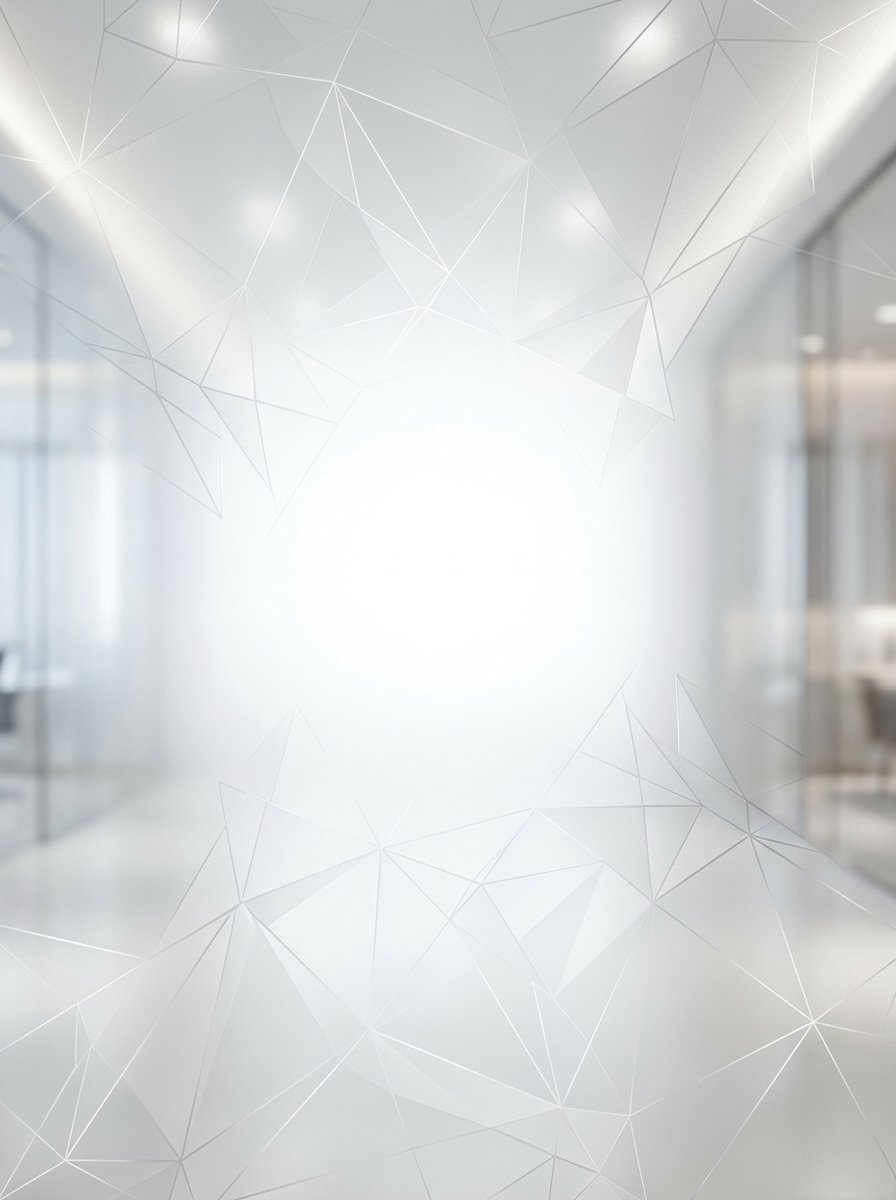
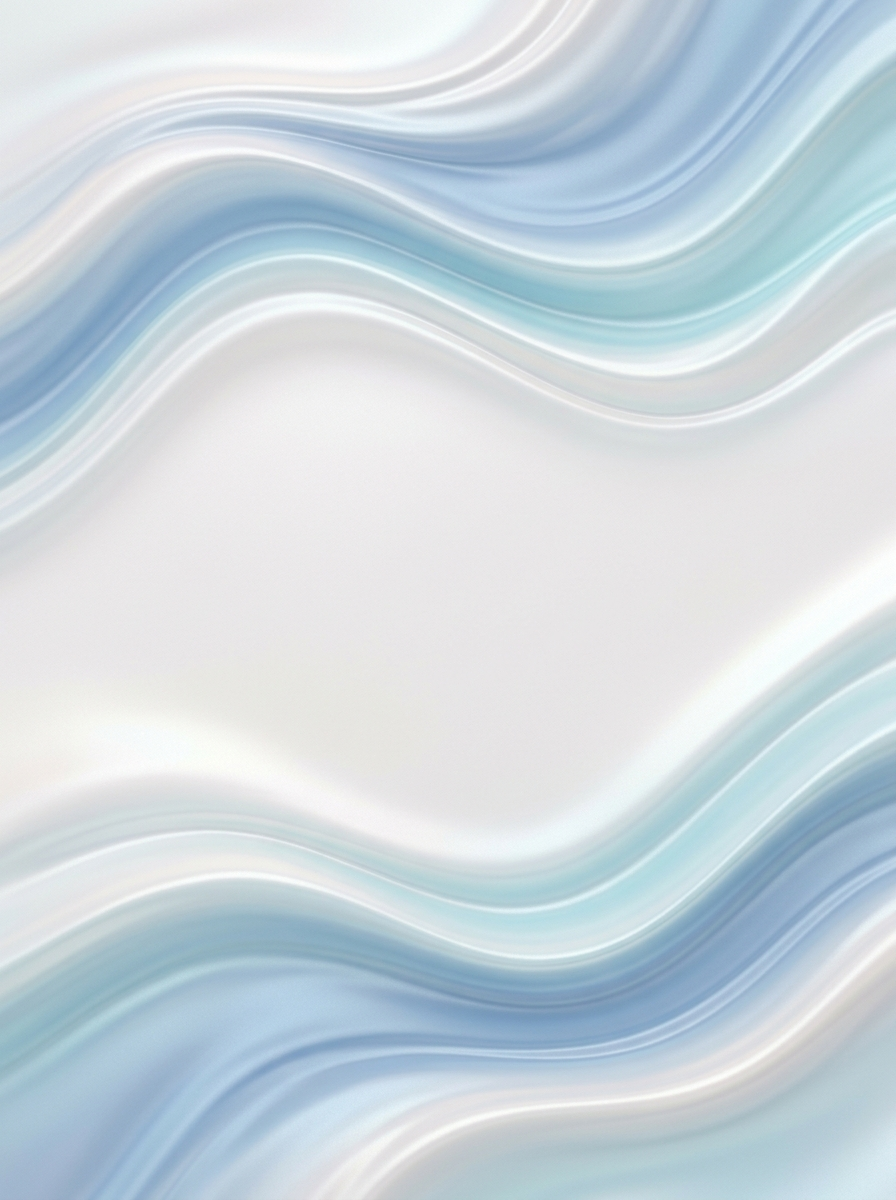
refactor: update QR code standee style 2 layout and background asset

diff --git a/resources/views/admin/print_qr_code.blade.php b/resources/views/admin/print_qr_code.blade.php
@@ -96,87 +96,72 @@
         <div class="col-12 col-md-4"></div>
         <div class="col-12 col-md-4">
             @if($currentStyle === 'style2')
-                <!-- STYLE 2: EXECUTIVE ACRYLIC STANDEE PRINT WITH LUXURY MESH BG & CENTER LOGO QR -->
-                <div class="qr_box_modern" id="qr_box" style="position: relative; text-align: center; background-color: #ffffff !important; border-radius: 20px; border: 2px solid #cbd5e1; overflow: hidden; color: #0f172a !important; -webkit-print-color-adjust: exact !important; print-color-adjust: exact !important;">
-                    <!-- Luxury Standee Background Image (renders in all print dialogs) -->
-                    <img src="{{ asset('frontend/images/qr_standee_luxury.jpg') }}" alt="Standee Background" style="position: absolute; top: 0; left: 0; width: 100%; height: 100%; object-fit: cover; z-index: 0; pointer-events: none; -webkit-print-color-adjust: exact !important; print-color-adjust: exact !important;">
+                <!-- STYLE 2: MODERN ACRYLIC STANDEE PRINT -->
+                <div class="qr_box_modern" id="qr_box" style="position: relative; text-align: center; background-color: #ffffff !important; border-radius: 26px; border: 2px solid #cbd5e1; overflow: hidden; color: #0f172a !important; -webkit-print-color-adjust: exact !important; print-color-adjust: exact !important;">
+                    <!-- Standee Background Image (renders in all print dialogs) -->
+                    <img src="{{ asset('frontend/images/qr_standee_bg.jpg') }}" alt="Standee Background" style="position: absolute; top: 0; left: 0; width: 100%; height: 100%; object-fit: cover; z-index: 0; pointer-events: none; -webkit-print-color-adjust: exact !important; print-color-adjust: exact !important;">
 
                     <!-- Content Layer -->
-                    <div style="position: relative; z-index: 1; display: flex; flex-direction: column; min-height: 600px;">
-                        <!-- Top Google Accent Bar -->
-                        <div style="background: linear-gradient(90deg, #4285F4 25%, #EA4335 25% 50%, #FBBC05 50% 75%, #34A853 75% 100%) !important; height: 6px; -webkit-print-color-adjust: exact !important;"></div>
+                    <div style="position: relative; z-index: 1; display: flex; flex-direction: column; min-height: 580px;">
+                        <!-- Top Google Gradient Ribbon -->
+                        <div style="background: linear-gradient(90deg, #4285F4 0%, #EA4335 33%, #FBBC05 66%, #34A853 100%) !important; height: 8px; -webkit-print-color-adjust: exact !important;"></div>
                         
                         <!-- Header Section -->
                         <div style="padding: 22px 20px 6px 20px;">
-                            <!-- Google Reviews Header Pill -->
-                            <div style="display: inline-flex; align-items: center; gap: 8px; background: rgba(255, 255, 255, 0.95) !important; padding: 6px 16px; border-radius: 30px; border: 1.5px solid #e2e8f0; margin-bottom: 8px; -webkit-print-color-adjust: exact !important;">
-                                <svg width="18" height="18" viewBox="0 0 24 24" style="vertical-align: middle;">
-                                    <path fill="#4285F4" d="M23.745 12.27c0-.7-.06-1.4-.19-2.07H12v4.51h6.6c-.29 1.52-1.14 2.82-2.4 3.68v3.05h3.88c2.27-2.09 3.665-5.17 3.665-9.17z"/>
-                                    <path fill="#34A853" d="M12 24c3.24 0 5.95-1.08 7.93-2.91l-3.88-3.05c-1.08.72-2.45 1.16-4.05 1.16-3.12 0-5.77-2.1-6.72-4.93H1.25v3.15C3.26 21.36 7.36 24 12 24z"/>
-                                    <path fill="#FBBC05" d="M5.28 14.27c-.25-.72-.38-1.49-.38-2.27s.14-1.55.38-2.27V6.58H1.25C.45 8.18 0 9.99 0 12s.45 3.82 1.25 5.42l4.03-3.15z"/>
-                                    <path fill="#EA4335" d="M12 4.75c1.77 0 3.35.61 4.6 1.8l3.42-3.42C17.95 1.19 15.24 0 12 0 7.36 0 3.26 2.64 1.25 6.58l4.03 3.15c.95-2.83 3.6-4.98 6.72-4.98z"/>
-                                </svg>
-                                <span style="font-weight: 800; font-size: 13px; color: #1e293b !important; letter-spacing: 0.3px; -webkit-print-color-adjust: exact !important;">Google Reviews</span>
-                                <div style="color: #f59e0b !important; font-size: 13px; display: inline-flex; gap: 2px; -webkit-print-color-adjust: exact !important;">
-                                    <i class="fa fa-star"></i><i class="fa fa-star"></i><i class="fa fa-star"></i><i class="fa fa-star"></i><i class="fa fa-star"></i>
-                                </div>
+                            <!-- 5 Stars -->
+                            <div style="display: inline-flex; align-items: center; justify-content: center; gap: 5px; color: #f59e0b !important; font-size: 24px; margin-bottom: 4px; -webkit-print-color-adjust: exact !important;">
+                                <i class="fa fa-star"></i><i class="fa fa-star"></i><i class="fa fa-star"></i><i class="fa fa-star"></i><i class="fa fa-star"></i>
                             </div>
 
-                            <h2 style="color: #0f172a !important; font-weight: 900; font-size: 24px; letter-spacing: 0.8px; text-transform: uppercase; margin: 4px 0 2px 0; line-height: 1.2;">
+                            <!-- Title -->
+                            <h2 style="color: #0b132b !important; font-weight: 900; font-size: 26px; letter-spacing: 1px; text-transform: uppercase; margin: 2px 0 0 0; line-height: 1.2;">
                                 Review Us On Google
                             </h2>
 
-                            <div style="margin-top: 4px; display: inline-flex; align-items: center; justify-content: center; gap: 6px;">
-                                <span style="color: #1d4ed8 !important; font-weight: 800; font-size: 18px; letter-spacing: 0.2px;">{{ Auth::user()->name }}</span>
-                                <span style="color: #2563eb !important; font-size: 16px;" title="Verified Business"><i class="fa-solid fa-circle-check"></i></span>
+                            <!-- Store Name -->
+                            <div style="margin-top: 4px;">
+                                <span style="color: #1a56db !important; font-weight: 800; font-size: 19px; letter-spacing: 0.2px;">{{ Auth::user()->name }}</span>
                             </div>
 
-                            <p style="color: #64748b !important; font-size: 13px; margin: 3px 0 12px 0; font-weight: 600;">
+                            <!-- Subtitle -->
+                            <p style="color: #475569 !important; font-size: 13.5px; margin: 4px 0 0 0; font-weight: 600;">
                                 Your 5-star review helps our business grow!
                             </p>
                         </div>
 
-                        <!-- Elevated QR Code Plaque -->
-                        <div style="margin: 0 auto;">
-                            <div style="display: inline-block; background: #ffffff !important; padding: 15px 15px 12px 15px; border-radius: 22px; border: 2px solid #f1f5f9; text-align: center; -webkit-print-color-adjust: exact !important;">
-                                <div class="qr_code_frame" style="position: relative; display: inline-block; line-height: 0;">
-                                    {!! QrCode::size(210)->errorCorrection('H')->generate($url."?from=qr") !!}
-                                    @if(!empty(Auth::user()->logo))
-                                        <div class="qr_center_logo" style="position: absolute; top: 50%; left: 50%; transform: translate(-50%, -50%); width: 56px; height: 56px; background: #ffffff !important; border-radius: 14px; padding: 5px; display: flex; align-items: center; justify-content: center; border: 2.5px solid #ffffff !important; overflow: hidden; z-index: 2; -webkit-print-color-adjust: exact !important;">
-                                            <img src="{{ Auth::user()->logo }}" alt="{{ Auth::user()->name }}" style="max-width: 100%; max-height: 100%; object-fit: contain; border-radius: 8px;">
-                                        </div>
-                                    @endif
-                                </div>
-                                <div style="display: flex; align-items: center; justify-content: center; gap: 6px; margin-top: 10px; color: #1e293b !important; font-weight: 700; font-size: 13px; -webkit-print-color-adjust: exact !important;">
-                                    <span style="display: inline-flex; align-items: center; justify-content: center; width: 24px; height: 24px; border-radius: 50%; background: #eff6ff !important; color: #2563eb !important; font-size: 11px; -webkit-print-color-adjust: exact !important;">
-                                        <i class="fa fa-camera"></i>
-                                    </span>
-                                    <span>Point camera & tap link to review</span>
-                                </div>
+                        <!-- White Framed QR Code Card -->
+                        <div style="background: #ffffff !important; margin: 12px 24px 14px 24px; padding: 22px 18px 16px 18px; border-radius: 26px; border: 1.5px solid #f1f5f9; text-align: center; -webkit-print-color-adjust: exact !important;">
+                            <div class="qr_code_frame" style="position: relative; display: inline-block; line-height: 0;">
+                                {!! QrCode::size(215)->errorCorrection('H')->generate($url."?from=qr") !!}
+                                @if(!empty(Auth::user()->logo))
+                                    <div class="qr_center_logo" style="position: absolute; top: 50%; left: 50%; transform: translate(-50%, -50%); width: 52px; height: 52px; background: #ffffff !important; border-radius: 12px; padding: 4px; display: flex; align-items: center; justify-content: center; border: 2.5px solid #ffffff !important; overflow: hidden; z-index: 2; -webkit-print-color-adjust: exact !important;">
+                                        <img src="{{ Auth::user()->logo }}" alt="{{ Auth::user()->name }}" style="max-width: 100%; max-height: 100%; object-fit: contain; border-radius: 6px;">
+                                    </div>
+                                @endif
+                            </div>
+                            <div style="display: flex; align-items: center; justify-content: center; gap: 8px; margin-top: 12px; color: #0f172a !important; font-weight: 700; font-size: 13.5px; -webkit-print-color-adjust: exact !important;">
+                                <span style="display: inline-flex; align-items: center; justify-content: center; width: 24px; height: 24px; border-radius: 50%; background: #eff6ff !important; color: #2563eb !important; font-size: 11px; -webkit-print-color-adjust: exact !important;">
+                                    <i class="fa fa-camera"></i>
+                                </span>
+                                <span>Point camera & tap the link</span>
                             </div>
                         </div>
 
-                        <!-- NFC & Contactless Feature Pill -->
-                        <div style="margin: 12px auto 6px auto; display: inline-flex; align-items: center; gap: 8px; background: rgba(255, 255, 255, 0.9) !important; padding: 5px 16px; border-radius: 30px; border: 1.5px solid #e2e8f0; -webkit-print-color-adjust: exact !important;">
-                            <span style="color: #0284c7 !important; font-size: 14px;"><i class="fa fa-wifi" style="transform: rotate(90deg);"></i></span>
-                            <span style="font-size: 12px; font-weight: 700; color: #334155 !important;">NFC Tap & QR Code Supported</span>
+                        <!-- Google Review Badge -->
+                        <div style="padding: 2px 20px 14px 20px;">
+                            <img src="{{ asset('frontend/images/gog_rev.png') }}" alt="Google Reviews" style="height: 58px;">
                         </div>
 
-                        <!-- Google Review Rating Badge -->
-                        <div style="margin: 4px auto 12px auto;">
-                            <img src="{{ asset('frontend/images/gog_rev.png') }}" alt="Google Reviews" style="height: 50px;">
-                        </div>
-
-                        <!-- Footer Verified & Powered By -->
-                        <div style="margin-top: auto; padding: 12px 20px; background: rgba(255, 255, 255, 0.9) !important; border-top: 1px solid rgba(226, 232, 240, 0.8); display: flex; align-items: center; justify-content: space-between; -webkit-print-color-adjust: exact !important;">
-                            <div style="display: flex; align-items: center; gap: 6px; color: #64748b !important; font-size: 12px; font-weight: 700; -webkit-print-color-adjust: exact !important;">
-                                <span style="display: inline-flex; align-items: center; justify-content: center; width: 22px; height: 22px; border-radius: 50%; background: #e0f2fe !important; color: #0284c7 !important; font-size: 10px; -webkit-print-color-adjust: exact !important;">
-                                    <i class="fa fa-shield-halved"></i>
+                        <!-- Footer Bar -->
+                        <div style="margin-top: auto; padding: 13px 20px; background: rgba(255, 255, 255, 0.95) !important; border-top: 1px solid rgba(226, 232, 240, 0.85); display: flex; align-items: center; justify-content: space-between; -webkit-print-color-adjust: exact !important;">
+                            <div style="display: flex; align-items: center; gap: 7px; color: #1e293b !important; font-size: 12.5px; font-weight: 700; -webkit-print-color-adjust: exact !important;">
+                                <span style="display: inline-flex; align-items: center; justify-content: center; width: 24px; height: 24px; border-radius: 50%; background: #e0f2fe !important; color: #0284c7 !important; font-size: 11px; -webkit-print-color-adjust: exact !important;">
+                                    <i class="fa fa-wifi" style="transform: rotate(90deg);"></i>
                                 </span>
-                                <span>Verified Review Standee</span>
+                                <span>Touch-Free Review</span>
                             </div>
                             <div style="display: flex; align-items: center; gap: 5px;">
-                                <span style="color: #94a3b8 !important; font-size: 11px; text-transform: uppercase; font-weight: 600;">Powered by</span>
+                                <span style="color: #64748b !important; font-size: 11px; text-transform: uppercase; font-weight: 700; letter-spacing: 0.5px;">Powered by</span>
                                 <img src="{{ asset('frontend/images/ask.png') }}" alt="AskReview" style="height: 22px;">
                             </div>
                         </div>

diff --git a/resources/views/admin/view_qr.blade.php b/resources/views/admin/view_qr.blade.php
@@ -58,87 +58,72 @@
         <div class="col-12 col-md-5 col-lg-4 mx-auto text-center">
 
             @if($currentStyle === 'style2')
-                <!-- STYLE 2: EXECUTIVE ACRYLIC STANDEE WITH LUXURY MESH BG & CENTER LOGO QR -->
-                <div class="qr_box_modern shadow-lg" id="qr_box" style="position: relative; background-color: #ffffff; border-radius: 24px; border: 2px solid #e2e8f0; overflow: hidden; color: #0f172a; text-align: center; box-shadow: 0 20px 45px rgba(15, 23, 42, 0.12);">
-                    <!-- Luxury Standee Background Image -->
-                    <img src="{{ asset('frontend/images/qr_standee_luxury.jpg') }}" alt="Standee Background" style="position: absolute; top: 0; left: 0; width: 100%; height: 100%; object-fit: cover; z-index: 0; pointer-events: none;">
+                <!-- STYLE 2: MODERN ACRYLIC STANDEE -->
+                <div class="qr_box_modern shadow-lg" id="qr_box" style="position: relative; background-color: #ffffff; border-radius: 26px; border: 2px solid #e2e8f0; overflow: hidden; color: #0f172a; text-align: center; box-shadow: 0 20px 45px rgba(0,0,0,0.12);">
+                    <!-- Standee Background Image -->
+                    <img src="{{ asset('frontend/images/qr_standee_bg.jpg') }}" alt="Standee Background" style="position: absolute; top: 0; left: 0; width: 100%; height: 100%; object-fit: cover; z-index: 0; pointer-events: none;">
 
                     <!-- Content Layer -->
-                    <div style="position: relative; z-index: 1; display: flex; flex-direction: column; min-height: 600px;">
-                        <!-- Top Google Colors Accent Bar -->
-                        <div style="background: linear-gradient(90deg, #4285F4 25%, #EA4335 25% 50%, #FBBC05 50% 75%, #34A853 75% 100%); height: 6px;"></div>
+                    <div style="position: relative; z-index: 1; display: flex; flex-direction: column; min-height: 580px;">
+                        <!-- Top Google Gradient Ribbon -->
+                        <div style="background: linear-gradient(90deg, #4285F4 0%, #EA4335 33%, #FBBC05 66%, #34A853 100%); height: 8px;"></div>
                         
                         <!-- Header Section -->
                         <div style="padding: 22px 20px 6px 20px;">
-                            <!-- Google Reviews Header Pill -->
-                            <div style="display: inline-flex; align-items: center; gap: 8px; background: rgba(255, 255, 255, 0.95); padding: 6px 16px; border-radius: 30px; border: 1.5px solid #e2e8f0; box-shadow: 0 4px 12px rgba(0,0,0,0.04); margin-bottom: 8px;">
-                                <svg width="18" height="18" viewBox="0 0 24 24" style="vertical-align: middle;">
-                                    <path fill="#4285F4" d="M23.745 12.27c0-.7-.06-1.4-.19-2.07H12v4.51h6.6c-.29 1.52-1.14 2.82-2.4 3.68v3.05h3.88c2.27-2.09 3.665-5.17 3.665-9.17z"/>
-                                    <path fill="#34A853" d="M12 24c3.24 0 5.95-1.08 7.93-2.91l-3.88-3.05c-1.08.72-2.45 1.16-4.05 1.16-3.12 0-5.77-2.1-6.72-4.93H1.25v3.15C3.26 21.36 7.36 24 12 24z"/>
-                                    <path fill="#FBBC05" d="M5.28 14.27c-.25-.72-.38-1.49-.38-2.27s.14-1.55.38-2.27V6.58H1.25C.45 8.18 0 9.99 0 12s.45 3.82 1.25 5.42l4.03-3.15z"/>
-                                    <path fill="#EA4335" d="M12 4.75c1.77 0 3.35.61 4.6 1.8l3.42-3.42C17.95 1.19 15.24 0 12 0 7.36 0 3.26 2.64 1.25 6.58l4.03 3.15c.95-2.83 3.6-4.98 6.72-4.98z"/>
-                                </svg>
-                                <span style="font-weight: 800; font-size: 13px; color: #1e293b; letter-spacing: 0.3px;">Google Reviews</span>
-                                <div style="color: #f59e0b; font-size: 13px; display: inline-flex; gap: 2px;">
-                                    <i class="fa fa-star"></i><i class="fa fa-star"></i><i class="fa fa-star"></i><i class="fa fa-star"></i><i class="fa fa-star"></i>
-                                </div>
+                            <!-- 5 Stars -->
+                            <div style="display: inline-flex; align-items: center; justify-content: center; gap: 5px; color: #f59e0b; font-size: 24px; margin-bottom: 4px;">
+                                <i class="fa fa-star"></i><i class="fa fa-star"></i><i class="fa fa-star"></i><i class="fa fa-star"></i><i class="fa fa-star"></i>
                             </div>
 
-                            <h2 style="color: #0f172a; font-weight: 900; font-size: 24px; letter-spacing: 0.8px; text-transform: uppercase; margin: 4px 0 2px 0; line-height: 1.2;">
+                            <!-- Title -->
+                            <h2 style="color: #0b132b; font-weight: 900; font-size: 26px; letter-spacing: 1px; text-transform: uppercase; margin: 2px 0 0 0; line-height: 1.2;">
                                 Review Us On Google
                             </h2>
 
-                            <div style="margin-top: 4px; display: inline-flex; align-items: center; justify-content: center; gap: 6px;">
-                                <span style="color: #1d4ed8; font-weight: 800; font-size: 18px; letter-spacing: 0.2px;">{{ Auth::user()->name }}</span>
-                                <span style="color: #2563eb; font-size: 16px;" title="Verified Business"><i class="fa-solid fa-circle-check"></i></span>
+                            <!-- Store Name -->
+                            <div style="margin-top: 4px;">
+                                <span style="color: #1a56db; font-weight: 800; font-size: 19px; letter-spacing: 0.2px;">{{ Auth::user()->name }}</span>
                             </div>
 
-                            <p style="color: #64748b; font-size: 13px; margin: 3px 0 12px 0; font-weight: 600;">
+                            <!-- Subtitle -->
+                            <p style="color: #475569; font-size: 13.5px; margin: 4px 0 0 0; font-weight: 600;">
                                 Your 5-star review helps our business grow!
                             </p>
                         </div>
 
-                        <!-- Elevated QR Code Plaque -->
-                        <div style="margin: 0 auto;">
-                            <div style="display: inline-block; background: #ffffff; padding: 15px 15px 12px 15px; border-radius: 22px; box-shadow: 0 12px 35px rgba(15, 23, 42, 0.1), 0 2px 6px rgba(0,0,0,0.04); border: 2px solid #f1f5f9; position: relative;">
-                                <div class="qr_code_frame" style="position: relative; display: inline-block; line-height: 0;">
-                                    {!! QrCode::size(210)->errorCorrection('H')->generate($url."?from=qr") !!}
-                                    @if(!empty(Auth::user()->logo))
-                                        <div class="qr_center_logo" style="position: absolute; top: 50%; left: 50%; transform: translate(-50%, -50%); width: 56px; height: 56px; background: #ffffff; border-radius: 14px; padding: 5px; box-shadow: 0 4px 14px rgba(0,0,0,0.22); display: flex; align-items: center; justify-content: center; border: 2.5px solid #ffffff; overflow: hidden; z-index: 2;">
-                                            <img src="{{ Auth::user()->logo }}" alt="{{ Auth::user()->name }}" style="max-width: 100%; max-height: 100%; object-fit: contain; border-radius: 8px;">
-                                        </div>
-                                    @endif
-                                </div>
-                                <div style="display: flex; align-items: center; justify-content: center; gap: 6px; margin-top: 10px; color: #1e293b; font-weight: 700; font-size: 13px;">
-                                    <span style="display: inline-flex; align-items: center; justify-content: center; width: 24px; height: 24px; border-radius: 50%; background: #eff6ff; color: #2563eb; font-size: 11px;">
-                                        <i class="fa fa-camera"></i>
-                                    </span>
-                                    <span>Point camera & tap link to review</span>
-                                </div>
+                        <!-- White Framed QR Code Card -->
+                        <div style="background: #ffffff; margin: 12px 24px 14px 24px; padding: 22px 18px 16px 18px; border-radius: 26px; box-shadow: 0 10px 30px rgba(0,0,0,0.06); border: 1.5px solid rgba(255, 255, 255, 0.9);">
+                            <div class="qr_code_frame" style="position: relative; display: inline-block; line-height: 0;">
+                                {!! QrCode::size(215)->errorCorrection('H')->generate($url."?from=qr") !!}
+                                @if(!empty(Auth::user()->logo))
+                                    <div class="qr_center_logo" style="position: absolute; top: 50%; left: 50%; transform: translate(-50%, -50%); width: 52px; height: 52px; background: #ffffff; border-radius: 12px; padding: 4px; box-shadow: 0 4px 14px rgba(0,0,0,0.18); display: flex; align-items: center; justify-content: center; border: 2.5px solid #ffffff; overflow: hidden; z-index: 2;">
+                                        <img src="{{ Auth::user()->logo }}" alt="{{ Auth::user()->name }}" style="max-width: 100%; max-height: 100%; object-fit: contain; border-radius: 6px;">
+                                    </div>
+                                @endif
+                            </div>
+                            <div style="display: flex; align-items: center; justify-content: center; gap: 8px; margin-top: 12px; color: #0f172a; font-weight: 700; font-size: 13.5px;">
+                                <span style="display: inline-flex; align-items: center; justify-content: center; width: 24px; height: 24px; border-radius: 50%; background: #eff6ff; color: #2563eb; font-size: 11px;">
+                                    <i class="fa fa-camera"></i>
+                                </span>
+                                <span>Point camera & tap the link</span>
                             </div>
                         </div>
 
-                        <!-- NFC & Contactless Feature Pill -->
-                        <div style="margin: 12px auto 6px auto; display: inline-flex; align-items: center; gap: 8px; background: rgba(255, 255, 255, 0.9); padding: 5px 16px; border-radius: 30px; border: 1.5px solid #e2e8f0; box-shadow: 0 2px 8px rgba(0,0,0,0.04);">
-                            <span style="color: #0284c7; font-size: 14px;"><i class="fa fa-wifi" style="transform: rotate(90deg);"></i></span>
-                            <span style="font-size: 12px; font-weight: 700; color: #334155;">NFC Tap & QR Code Supported</span>
+                        <!-- Google Review Badge -->
+                        <div style="padding: 2px 20px 14px 20px;">
+                            <img src="{{ asset('frontend/images/gog_rev.png') }}" alt="Google Reviews" style="height: 58px; filter: drop-shadow(0 3px 8px rgba(0,0,0,0.08));">
                         </div>
 
-                        <!-- Google Review Rating Badge -->
-                        <div style="margin: 4px auto 12px auto;">
-                            <img src="{{ asset('frontend/images/gog_rev.png') }}" alt="Google Reviews" style="height: 50px; filter: drop-shadow(0 2px 8px rgba(0,0,0,0.08));">
-                        </div>
-
-                        <!-- Footer Verified & Powered By -->
-                        <div style="margin-top: auto; padding: 12px 20px; background: rgba(255, 255, 255, 0.88); backdrop-filter: blur(8px); border-top: 1px solid rgba(226, 232, 240, 0.8); display: flex; align-items: center; justify-content: space-between;">
-                            <div style="display: flex; align-items: center; gap: 6px; color: #64748b; font-size: 12px; font-weight: 700;">
-                                <span style="display: inline-flex; align-items: center; justify-content: center; width: 22px; height: 22px; border-radius: 50%; background: #e0f2fe; color: #0284c7; font-size: 10px;">
-                                    <i class="fa fa-shield-halved"></i>
+                        <!-- Footer Bar -->
+                        <div style="margin-top: auto; padding: 13px 20px; background: rgba(255, 255, 255, 0.95); backdrop-filter: blur(8px); border-top: 1px solid rgba(226, 232, 240, 0.85); display: flex; align-items: center; justify-content: space-between;">
+                            <div style="display: flex; align-items: center; gap: 7px; color: #1e293b; font-size: 12.5px; font-weight: 700;">
+                                <span style="display: inline-flex; align-items: center; justify-content: center; width: 24px; height: 24px; border-radius: 50%; background: #e0f2fe; color: #0284c7; font-size: 11px;">
+                                    <i class="fa fa-wifi" style="transform: rotate(90deg);"></i>
                                 </span>
-                                <span>Verified Review Standee</span>
+                                <span>Touch-Free Review</span>
                             </div>
                             <div style="display: flex; align-items: center; gap: 5px;">
-                                <span style="color: #94a3b8; font-size: 11px; text-transform: uppercase; font-weight: 600;">Powered by</span>
+                                <span style="color: #64748b; font-size: 11px; text-transform: uppercase; font-weight: 700; letter-spacing: 0.5px;">Powered by</span>
                                 <img src="{{ asset('frontend/images/ask.png') }}" alt="AskReview" style="height: 22px;">
                             </div>
                         </div>
